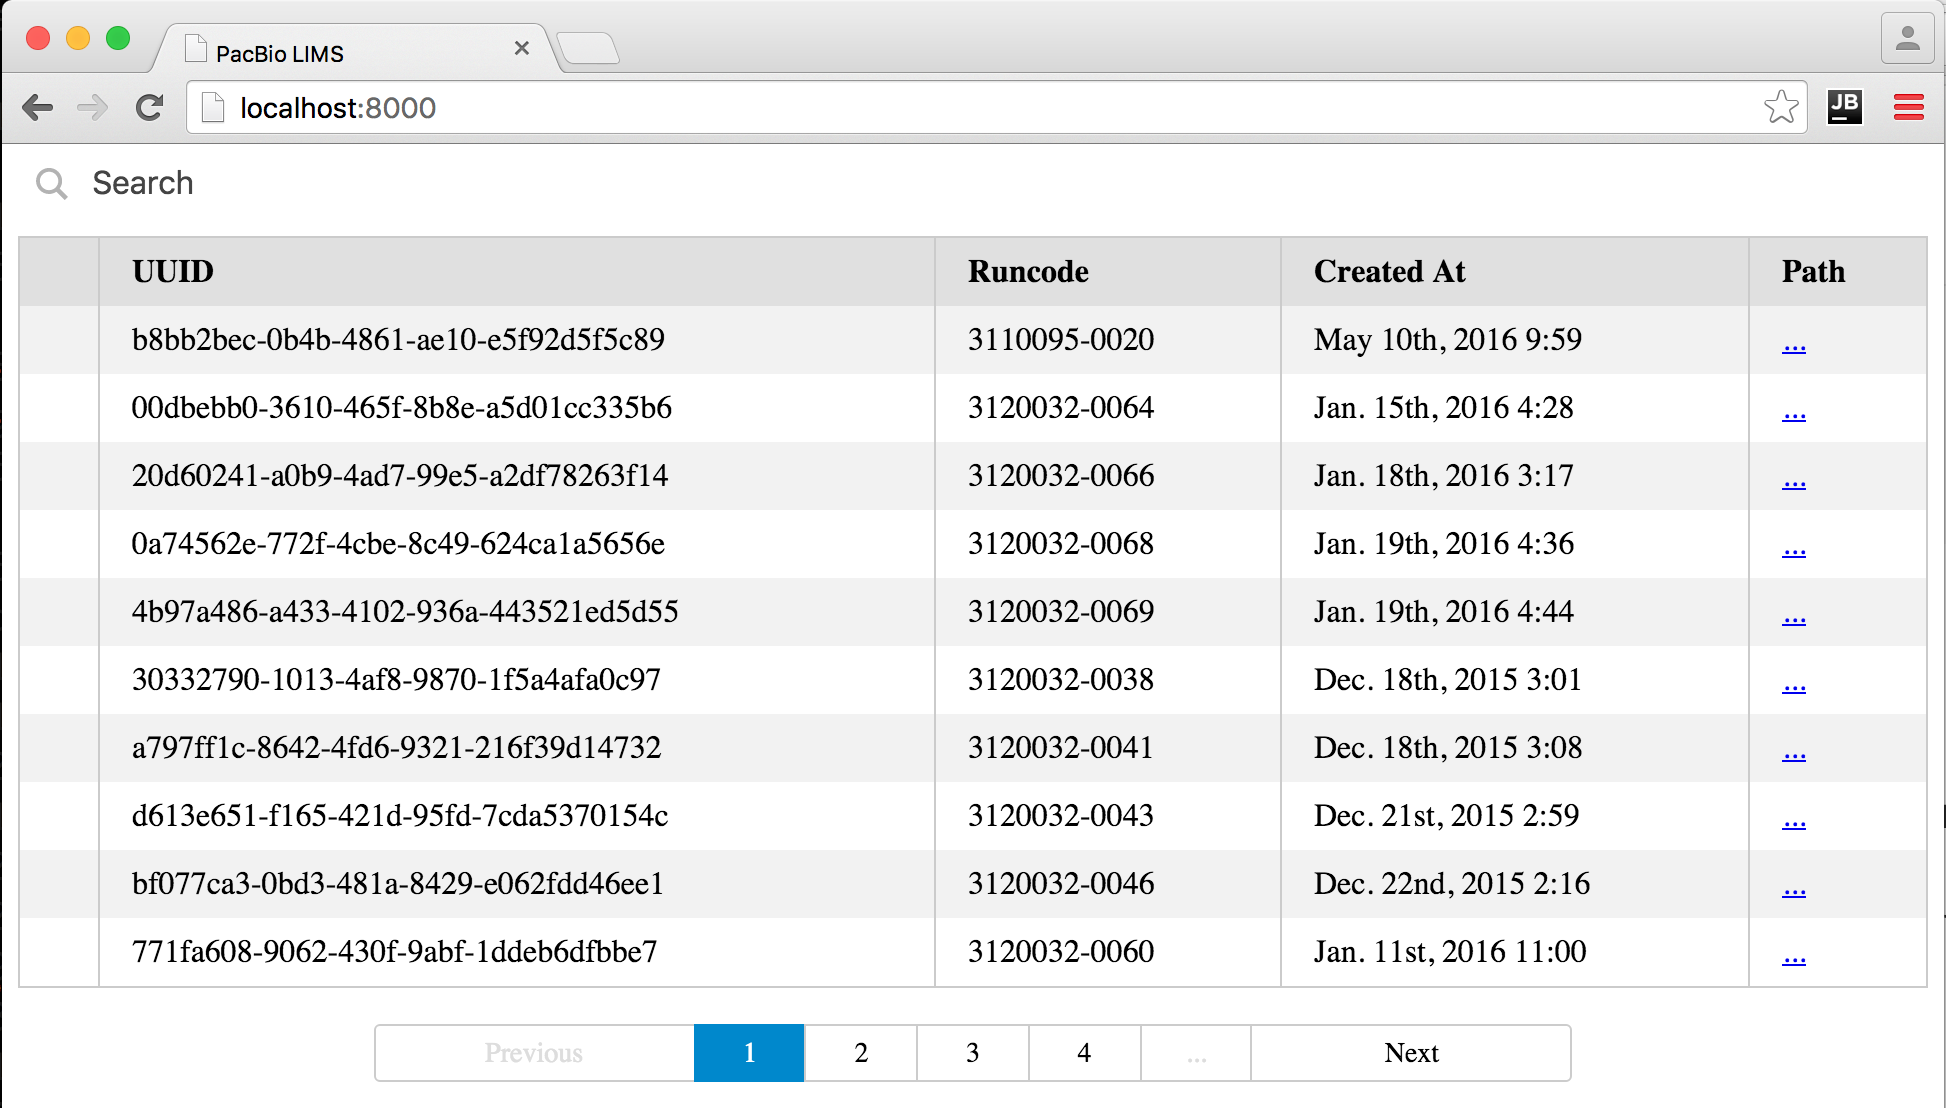
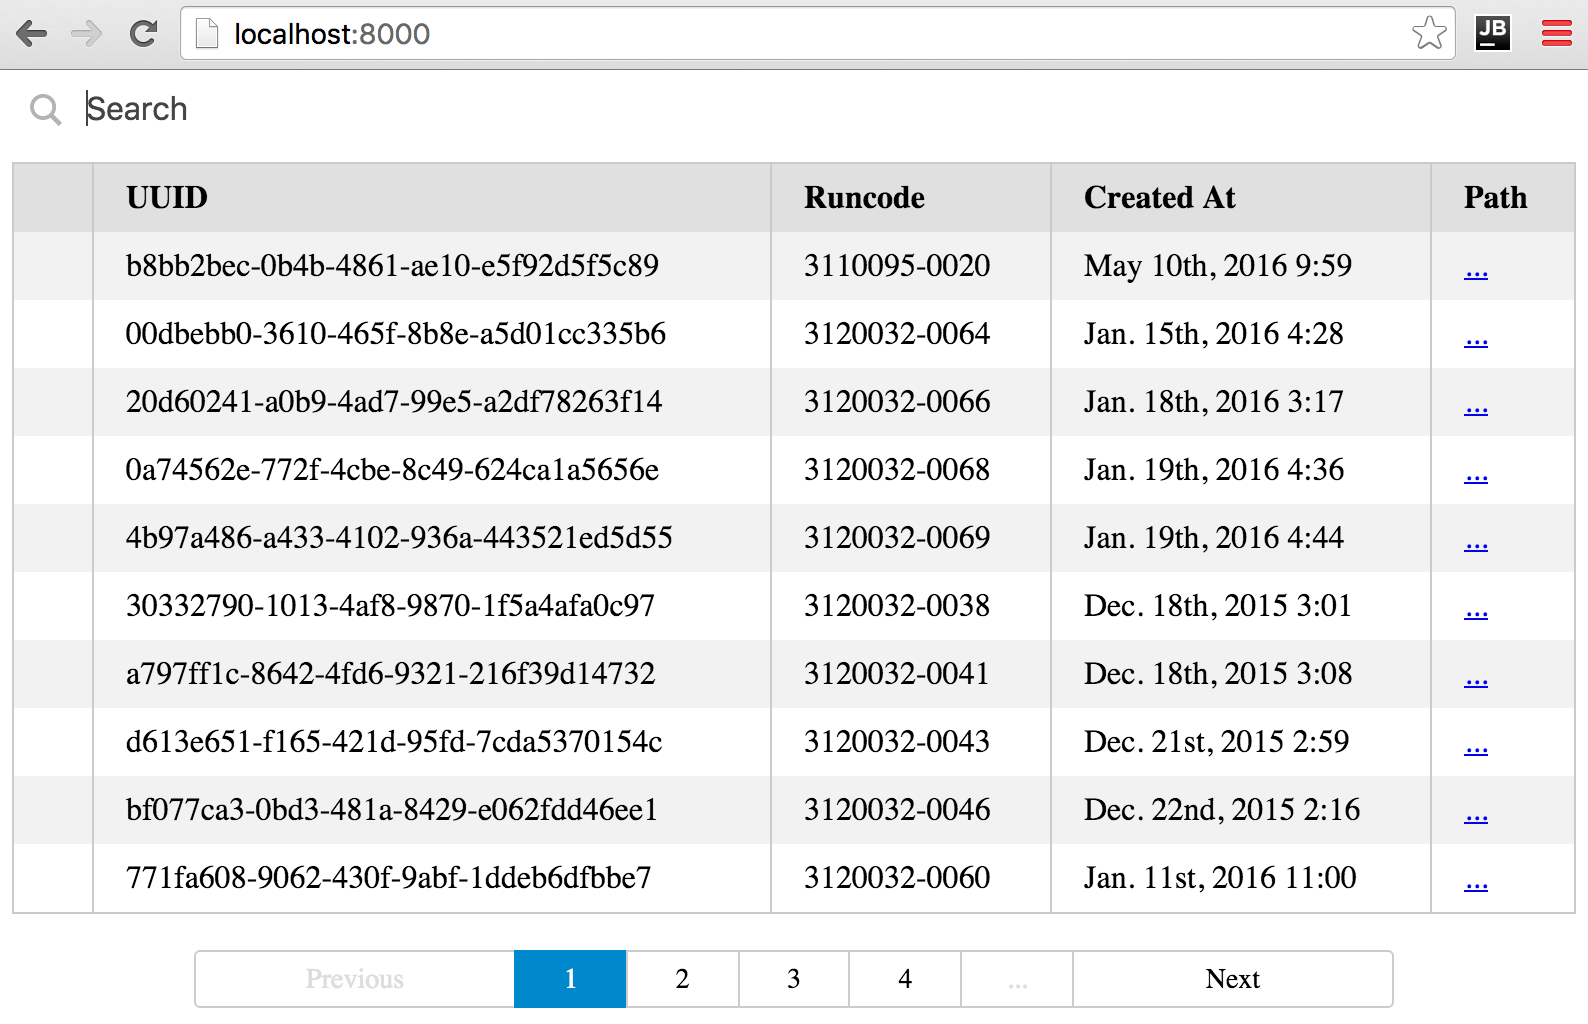
More, trimmed screenshots

diff --git a/README.md b/README.md
@@ -8,7 +8,8 @@ python -m SimpleHTTPServer
 
 Browse to [localhost:8000](http://localhost:8000/) to see the app.
 
-![Example screenhost of the rendered web page](screenshot.png)
+![Screenshot of the rendered web page](screenshot.png)
+![Screenshot of filtered search](screenshot_filter.png)
 
 See the code for all the components.
 
